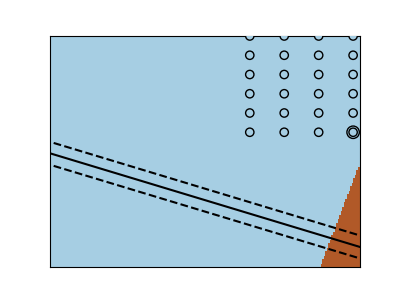
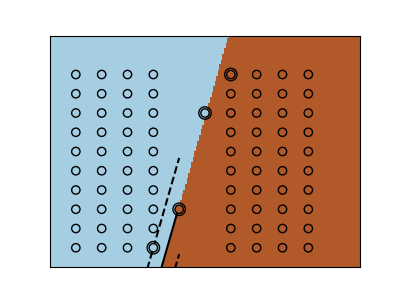
Fixed graphs

diff --git a/question1.py b/question1.py
@@ -39,7 +39,7 @@ for name, penalty in (('case1',1),('case2',3)):
     print(clf.support_vectors_)
     
     # get the separating hyperplane
-    w = clf.dual_coef_[0]
+    w = clf.coef_[0]
     a = -w[0] / w[1]
     xx = np.linspace(-5, 5)
     yy = a * xx - (clf.intercept_[0]) / w[1]
@@ -65,10 +65,10 @@ for name, penalty in (('case1',1),('case2',3)):
                 edgecolors='k')
 
     plt.axis('tight')
-    x_min = -4.8
-    x_max = 4.2
-    y_min = -6
-    y_max = 6
+    x_min = 0
+    x_max = 12
+    y_min = 0
+    y_max = 12
 
     XX, YY = np.mgrid[x_min:x_max:200j, y_min:y_max:200j]
     Z = clf.predict(np.c_[XX.ravel(), YY.ravel()])
